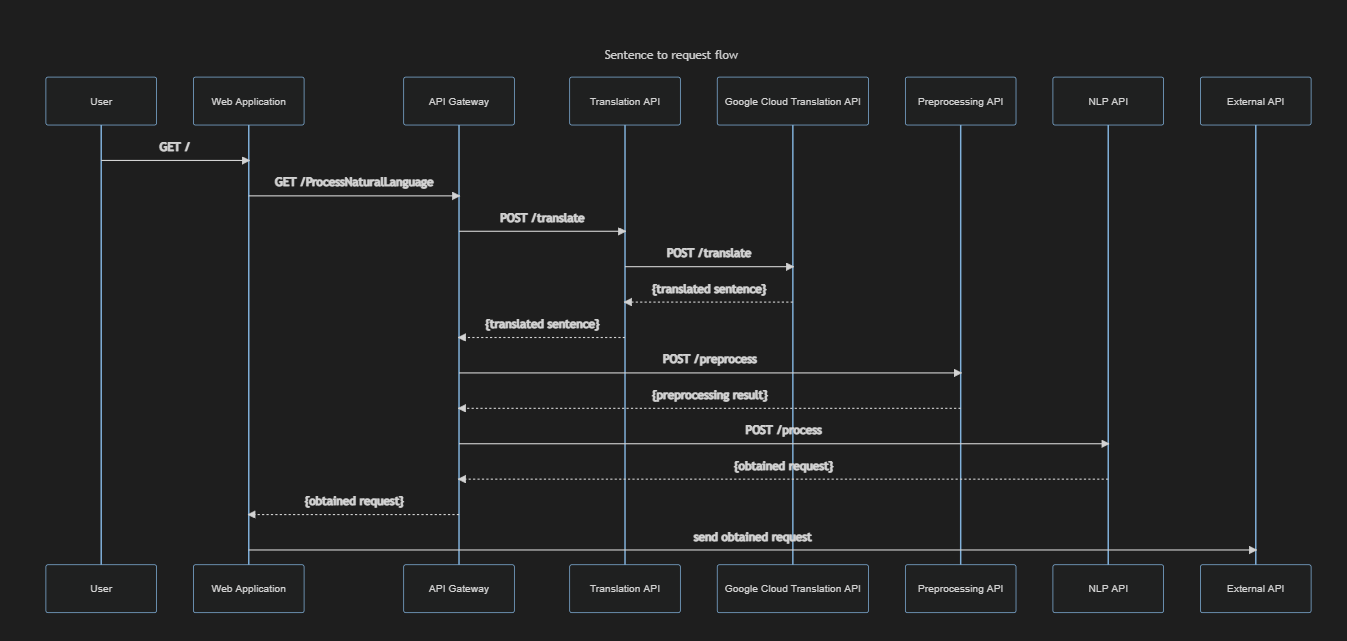
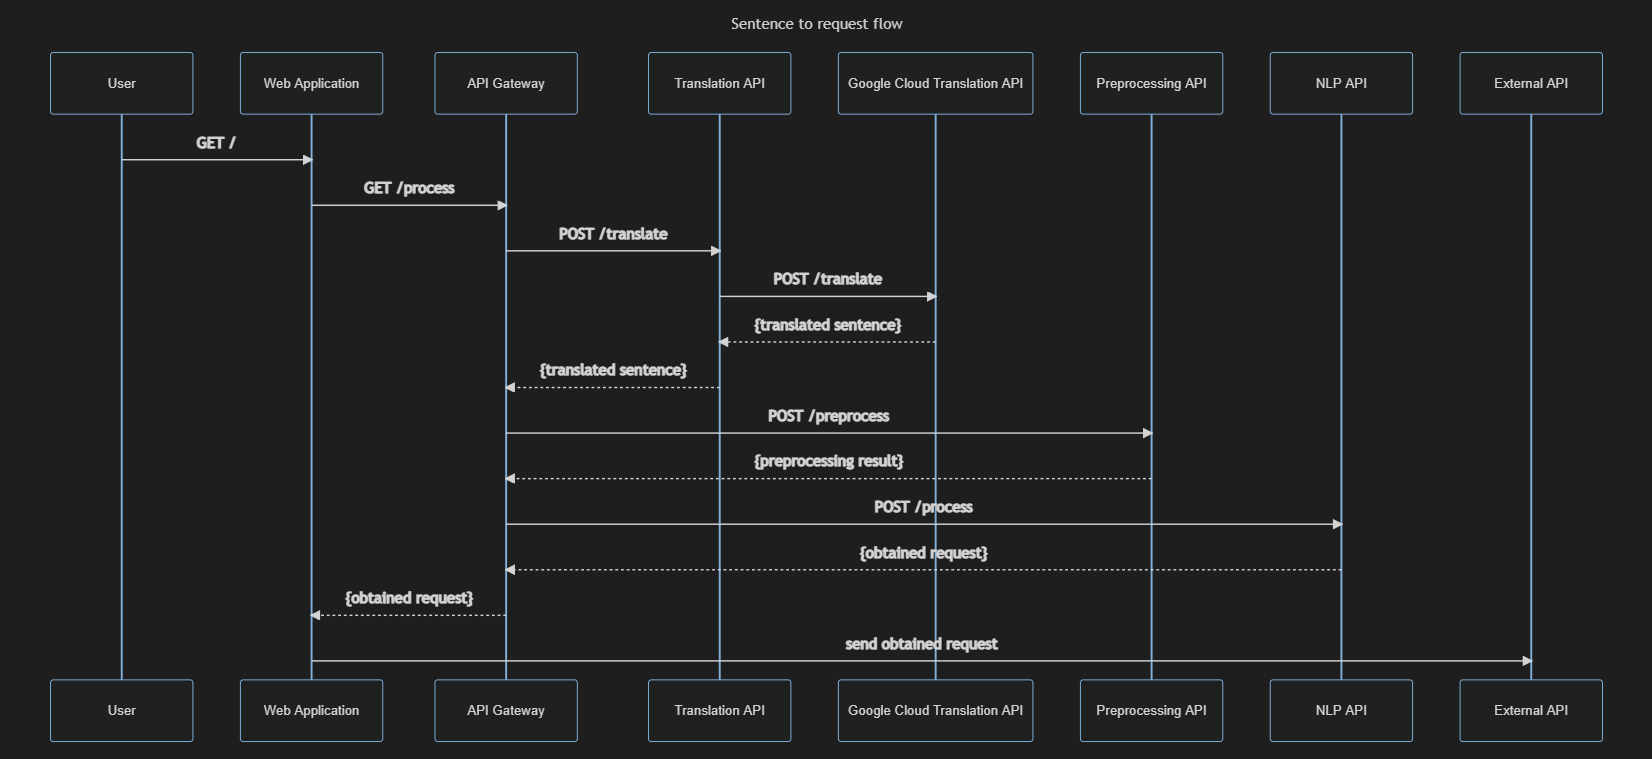
small fixes in names

diff --git a/diagrams/sequence-diagram.md b/diagrams/sequence-diagram.md
@@ -2,7 +2,7 @@
 sequenceDiagram
   Title: Sentence to request flow
   User->> Web Application: GET /;
-  Web Application ->> API Gateway: GET /ProcessNaturalLanguage;
+  Web Application ->> API Gateway: GET /process;
   API Gateway ->> Translation API: POST /translate
   Translation API ->> Google Cloud Translation API: POST /translate
   Google Cloud Translation API -->> Translation API : {translated sentence}
